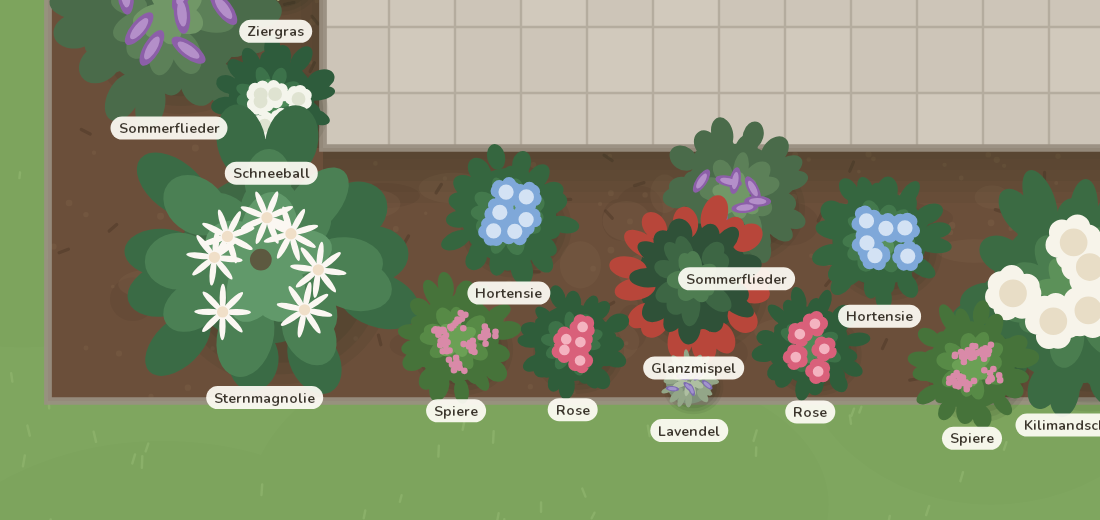
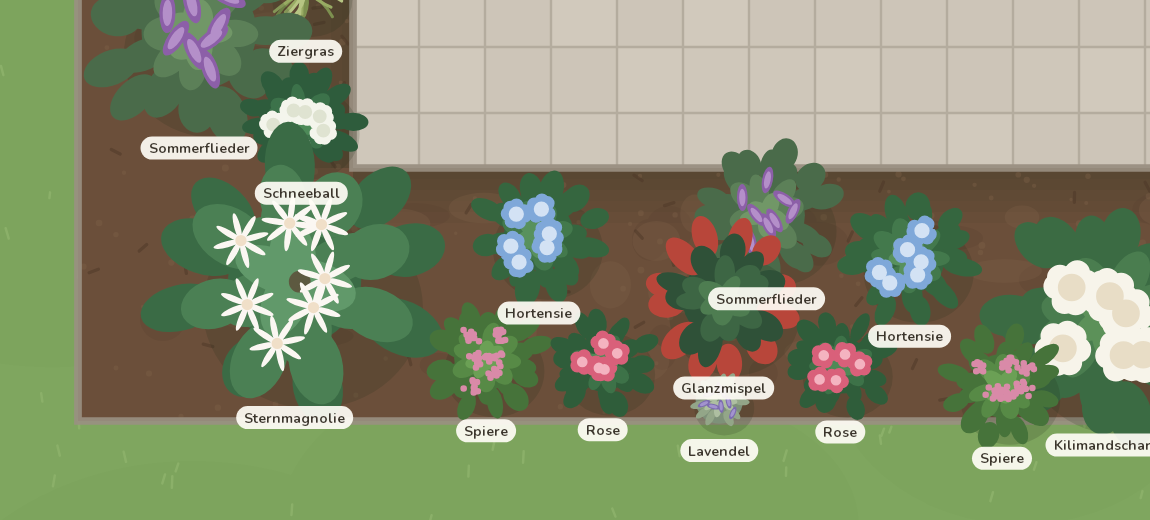
perf: bei starkem Zoom noch einmal siebenfach schneller
Hineingezoomt ruckelte es weiter. Gemessen bei 200 px/m: 163 ms pro
Frame, jetzt 56 ms. Gegenüber dem Ausgangszustand von 430 ms also 7,7x.

Der Engpass war nicht mehr die Anzahl der Aufrufe, sondern gefüllte
Pixel mit Alpha-Mischung -- bei starkem Zoom bedecken dieselben Formen
sehr viel mehr Fläche.

- **Texturfarben vorab ausgemischt** (src/view/color.ts). Erde, Gras und
  Plattenraster liegen immer direkt auf der Grundfarbe ihrer Fläche, also
  lässt sich das Ergebnis einmal ausrechnen und deckend zeichnen. Skia
  muss dann nicht pro Pixel mischen: Untergrund von 97 auf 53 ms.
- **Wandschatten deckend statt fünffach überlagert.** Die Abstufung wird
  vorab gerechnet (1-(1-a)^k), das Ergebnis ist identisch. Untergrund
  weiter auf 24 ms.
- **Pflanzenschatten von drei Ellipsen auf eine.** Das war allein achtzig
  Prozent der Pflanzenzeit -- jede Ellipse ist fast so groß wie die
  Pflanze und wurde mit Deckkraft über den Boden gemischt. Sichtbar ist
  ohnehin nur der Rand, der unter der Pflanze hervorschaut. Pflanzen von
  71 auf 34 ms.
- Blattzahlen von 46 auf 35 gesenkt; das brachte wenig (Überzeichnung war
  nicht der Punkt) und wurde beibehalten, weil es gleich gut aussieht.
  Der Grundkreis ist dafür wieder größer, sonst schien Erde durch.

Verifiziert: typecheck und 25 Tests grün, Vorschaubilder gegengesehen.

diff --git a/src/view/ground.ts b/src/view/ground.ts
@@ -14,6 +14,7 @@ import {
 
 import { GARDEN_PLAN, SOUTH_WALL_Y, WEST_WALL_X } from "../garden/plan";
 import type { GardenArea, Point, Rect } from "../garden/types";
+import { over } from "./color";
 import { makeRng, type Rng } from "./rng";
 import { textWidth } from "./text";
 
@@ -195,9 +196,9 @@ const drawLawn = (canvas: SkCanvas, path: SkPath, rect: Rect, rng: Rng) => {
     const r = rng.range(0.9, 2.6);
     addOval(patches, x, y, r, r * rng.range(0.6, 0.9));
   });
-  canvas.drawPath(patches.detach(), fill(MATERIAL.lawn.shade, 0.13));
+  canvas.drawPath(patches.detach(), fill(over(MATERIAL.lawn.base, MATERIAL.lawn.shade, 0.13)));
 
-  const blade = stroke(MATERIAL.lawn.blade, 0.022, 0.55);
+  const blade = stroke(over(MATERIAL.lawn.base, MATERIAL.lawn.blade, 0.55), 0.022);
   perTile(rect, rng, (tile, count) => {
     const blades = batch();
     scatter(tile, count(2.6), rng, (x, y) => {
@@ -215,7 +216,7 @@ const drawHouse = (canvas: SkCanvas, path: SkPath, rect: Rect) => {
     for (let y = rect.y; y < rect.y + rect.height; y += 1.1) {
       addSegment(bands, rect.x, y, rect.x + rect.width, y);
     }
-    canvas.drawPath(bands.detach(), stroke(MATERIAL.house.roof, 0.06, 0.5));
+    canvas.drawPath(bands.detach(), stroke(over(MATERIAL.house.base, MATERIAL.house.roof, 0.5), 0.06));
   });
 };
 
@@ -235,8 +236,8 @@ const drawTerrace = (canvas: SkCanvas, path: SkPath, rect: Rect, rng: Rng) => {
         else if (roll > 0.45) dark.addRect(Skia.XYWHRect(x, y, tile, tile));
       }
     }
-    canvas.drawPath(light.detach(), fill(MATERIAL.terrace.tint, 0.4));
-    canvas.drawPath(dark.detach(), fill(MATERIAL.terrace.tint, 0.18));
+    canvas.drawPath(light.detach(), fill(over(MATERIAL.terrace.base, MATERIAL.terrace.tint, 0.4)));
+    canvas.drawPath(dark.detach(), fill(over(MATERIAL.terrace.base, MATERIAL.terrace.tint, 0.18)));
 
     const joints = batch();
     for (let x = rect.x; x <= rect.x + rect.width + 0.001; x += tile) {
@@ -245,11 +246,13 @@ const drawTerrace = (canvas: SkCanvas, path: SkPath, rect: Rect, rng: Rng) => {
     for (let y = rect.y; y <= rect.y + rect.height + 0.001; y += tile) {
       addSegment(joints, rect.x, y, rect.x + rect.width, y);
     }
-    canvas.drawPath(joints.detach(), stroke(MATERIAL.terrace.joint, 0.022, 0.75));
+    canvas.drawPath(joints.detach(), stroke(over(MATERIAL.terrace.base, MATERIAL.terrace.joint, 0.75), 0.022));
   }
 };
 
 const drawBed = (canvas: SkCanvas, path: SkPath, rect: Rect, rng: Rng, outline: Point[]) => {
+  drawWallShadow(canvas, rect.x + rect.width, rect.y + rect.height);
+
   const clodDark = fill(MATERIAL.soil.dark, 0.3);
   const clodLight = fill(MATERIAL.soil.light, 0.3);
   const gritPaint = fill(MATERIAL.soil.light, 0.4);
@@ -303,23 +306,29 @@ const drawBed = (canvas: SkCanvas, path: SkPath, rect: Rect, rng: Rng, outline: 
 /**
  * Schlagschatten von Haus- und Terrassenwand auf das Beet.
  *
- * Beide Bänder liegen durch die Beetgeometrie zwangsläufig innerhalb des
- * Beetes, deshalb ohne Clip -- ein L-förmiger Clip über riesige Rechtecke war
- * der zweitteuerste Posten des ganzen Untergrunds. Als Treppe aus wenigen
- * Bändern statt als Weichzeichner, das ist optisch kaum zu unterscheiden.
+ * Eine Treppe aus Bändern statt eines Weichzeichners, und deckend statt mit
+ * Deckkraft: die Bänder liegen auf der Erdgrundfarbe, also lässt sich die
+ * Abstufung vorher ausrechnen. Mit Deckkraft übereinandergelegt war das bei
+ * starkem Zoom ein spürbarer Posten, weil dieselbe Fläche fünfmal gemischt
+ * wurde.
+ *
+ * Wird vor der Textur gezeichnet -- ob Erdschollen über oder unter dem Schatten
+ * liegen, sieht man nicht.
  */
 const drawWallShadow = (canvas: SkCanvas, bedRight: number, bedBottom: number) => {
   const steps = 5;
+  const perStep = 0.05;
   for (let i = 0; i < steps; i++) {
     const depth = 0.5 * (1 - i / steps);
+    // Ein Punkt in diesem Band liegt unter i+1 Bändern; das ist die Deckung,
+    // die sich mit Alpha ergeben hätte.
+    const cumulative = 1 - (1 - perStep) ** (i + 1);
     const bands = batch();
-    // Entlang der Südwand von Terrasse und Haus.
     bands.addRect(
       Skia.XYWHRect(WEST_WALL_X, SOUTH_WALL_Y, bedRight - WEST_WALL_X, Math.min(depth, bedBottom - SOUTH_WALL_Y)),
     );
-    // Entlang der Westwand der Terrasse, in den Westarm hinein.
     bands.addRect(Skia.XYWHRect(WEST_WALL_X - depth, 0, depth, SOUTH_WALL_Y));
-    canvas.drawPath(bands.detach(), fill("#1c2a16", 0.05));
+    canvas.drawPath(bands.detach(), fill(over(MATERIAL.soil.base, "#1c2a16", cumulative)));
   }
 };
 
@@ -432,10 +441,6 @@ export const createGroundTexturePicture = (): SkPicture => {
         const path = pathOf(area);
         canvas.drawPath(path, fill(BASE_COLOR[area.kind]));
         DRAWERS[area.kind](canvas, path, boundsOf(area), makeRng(`ground:${area.id}`), area.outline);
-        if (area.kind === "bed") {
-          const r = boundsOf(area);
-          drawWallShadow(canvas, r.x + r.width, r.y + r.height);
-        }
         drawAreaEdge(canvas, area, path);
       }
       void bed;

diff --git a/src/view/plantArt.ts b/src/view/plantArt.ts
@@ -93,16 +93,20 @@ const addLeafRing = (
 
 /** Dichter, runder Strauch: außen dunkel, innen hell -- liest sich als Kuppel. */
 const drawMound = (canvas: SkCanvas, radius: number, palette: PlantPalette, rng: Rng) => {
-  // Grundmasse, damit zwischen den Blättern kein Boden durchscheint.
+  // Grundmasse, damit zwischen den Blättern kein Boden durchscheint. Klein
+  // gehalten: die Ringe überdecken den Rand ohnehin, und jede zusätzliche
+  // Schicht wird bei starkem Zoom über viele Pixel geschrieben.
   const base = batch();
-  addCircle(base, 0, 0, radius * 0.78);
+  addCircle(base, 0, 0, radius * 0.7);
   canvas.drawPath(base.detach(), fill(palette.leafDark));
 
+  // Blattzahlen bewusst knapp: von 46 auf 35 gesenkt kostet bei starkem Zoom
+  // rund ein Viertel weniger, ohne dass die Kuppel auseinanderfällt.
   const rings: Array<{ r: number; count: number; color: string; leaf: number }> = [
-    { r: radius * 0.88, count: 16, color: palette.leafTip ?? palette.leafDark, leaf: 0.5 },
-    { r: radius * 0.64, count: 13, color: palette.leafDark, leaf: 0.48 },
-    { r: radius * 0.4, count: 10, color: palette.leafMid, leaf: 0.44 },
-    { r: radius * 0.16, count: 7, color: palette.leafLight, leaf: 0.4 },
+    { r: radius * 0.86, count: 12, color: palette.leafTip ?? palette.leafDark, leaf: 0.56 },
+    { r: radius * 0.62, count: 10, color: palette.leafDark, leaf: 0.54 },
+    { r: radius * 0.38, count: 8, color: palette.leafMid, leaf: 0.48 },
+    { r: radius * 0.14, count: 5, color: palette.leafLight, leaf: 0.44 },
   ];
   for (const ring of rings) {
     const b = batch();
@@ -114,14 +118,14 @@ const drawMound = (canvas: SkCanvas, radius: number, palette: PlantPalette, rng:
 /** Größeres Gehölz: lockerere, größere Blattlappen und ein Stammansatz. */
 const drawCanopy = (canvas: SkCanvas, radius: number, palette: PlantPalette, rng: Rng) => {
   const base = batch();
-  addCircle(base, 0, 0, radius * 0.7);
-  canvas.drawPath(base.detach(), fill(palette.leafDark, 0.9));
+  addCircle(base, 0, 0, radius * 0.64);
+  canvas.drawPath(base.detach(), fill(palette.leafDark));
 
   const rings: Array<{ r: number; count: number; color: string }> = [
-    { r: radius * 0.92, count: 11, color: palette.leafDark },
-    { r: radius * 0.68, count: 9, color: palette.leafMid },
-    { r: radius * 0.42, count: 7, color: palette.leafMid },
-    { r: radius * 0.2, count: 5, color: palette.leafLight },
+    { r: radius * 0.9, count: 9, color: palette.leafDark },
+    { r: radius * 0.66, count: 8, color: palette.leafMid },
+    { r: radius * 0.4, count: 6, color: palette.leafMid },
+    { r: radius * 0.18, count: 4, color: palette.leafLight },
   ];
   for (const ring of rings) {
     const b = batch();
@@ -138,7 +142,7 @@ const drawCanopy = (canvas: SkCanvas, radius: number, palette: PlantPalette, rng
 const drawGrass = (canvas: SkCanvas, radius: number, palette: PlantPalette, rng: Rng) => {
   const colors = [palette.leafDark, palette.leafMid, palette.leafLight];
   const groups = colors.map(() => batch());
-  for (let i = 0; i < 34; i++) {
+  for (let i = 0; i < 26; i++) {
     const angle = rng.range(0, Math.PI * 2);
     const length = rng.range(radius * 0.55, radius * 1.05);
     const bend = rng.range(-0.35, 0.35);
@@ -173,11 +177,11 @@ const drawTuft = (canvas: SkCanvas, radius: number, palette: PlantPalette, rng: 
   canvas.drawPath(base.detach(), fill(palette.leafDark));
 
   const outer = batch();
-  addLeafRing(outer, radius * 0.62, 14, radius * 0.5, radius * 0.2, rng);
+  addLeafRing(outer, radius * 0.62, 11, radius * 0.54, radius * 0.22, rng);
   canvas.drawPath(outer.detach(), fill(palette.leafMid));
 
   const inner = batch();
-  addLeafRing(inner, radius * 0.3, 9, radius * 0.42, radius * 0.18, rng);
+  addLeafRing(inner, radius * 0.3, 7, radius * 0.44, radius * 0.2, rng);
   canvas.drawPath(inner.detach(), fill(palette.leafLight));
 };
 
@@ -301,21 +305,17 @@ const FORMS = {
 
 /**
  * Schlagschatten nach Südosten -- Licht kommt konventionell von oben links.
- * Drei gestapelte Ellipsen statt eines Weichzeichners: derselbe Eindruck,
- * ohne pro Zoomstufe neu berechnete Maske.
+ *
+ * Eine einzige Ellipse. Vorher waren es drei gestapelte für einen weichen
+ * Verlauf; bei starkem Zoom war das allein achtzig Prozent der Zeit, die die
+ * Pflanzen kosteten -- jede Ellipse ist fast so groß wie die Pflanze und wird
+ * mit Deckkraft über den Boden gemischt. Sichtbar ist ohnehin nur der Rand, der
+ * unter der Pflanze hervorschaut.
  */
 const drawShadow = (canvas: SkCanvas, radius: number) => {
-  const offsetX = radius * 0.12;
-  const offsetY = radius * 0.2;
-  for (const [spread, alpha] of [
-    [1.02, 0.08],
-    [0.92, 0.09],
-    [0.8, 0.1],
-  ] as const) {
-    const b = batch();
-    addOval(b, offsetX, offsetY, radius * 1.8 * spread, radius * 1.64 * spread, 0);
-    canvas.drawPath(b.detach(), fill("#1c2a16", alpha));
-  }
+  const b = batch();
+  addOval(b, radius * 0.15, radius * 0.24, radius * 1.82, radius * 1.66, 0);
+  canvas.drawPath(b.detach(), fill("#1c2a16", 0.17));
 };
 
 /**

diff --git a/scripts/preview/bench.ts b/scripts/preview/bench.ts
@@ -62,37 +62,40 @@ const surface = Skia.Surface.Make(WIDTH, HEIGHT);
 if (!surface) throw new Error("Surface konnte nicht erzeugt werden");
 const canvas: SkCanvas = surface.getCanvas();
 
-const drawFrame = (scale: number, offset: number, texture: boolean, worldX = 0, worldY = 0) => {
+type Layers = { texture: boolean; ground: boolean; plants: boolean };
+
+const drawFrame = (scale: number, offset: number, layers: Layers, worldX = 0, worldY = 0) => {
   canvas.clear(Skia.Color("#8fb26e"));
   canvas.save();
   canvas.translate(-offset - worldX * scale, -offset / 2 - worldY * scale);
   canvas.scale(scale, scale);
-  canvas.drawPicture(texture ? groundTexture : groundFlat);
-  canvas.drawPicture(restingPlants);
+  if (layers.ground) canvas.drawPicture(layers.texture ? groundTexture : groundFlat);
+  if (layers.plants) canvas.drawPicture(restingPlants);
   canvas.restore();
   surface.flush();
 };
 
-const measure = (label: string, scale: number, texture: boolean, worldX = 0, worldY = 0) => {
-  drawFrame(scale, 0, texture, worldX, worldY);
+const measure = (label: string, scale: number, layers: Layers, worldX = 0, worldY = 0) => {
+  drawFrame(scale, 0, layers, worldX, worldY);
   const started = Bun.nanoseconds();
-  for (let i = 0; i < FRAMES; i++) drawFrame(scale, i * 0.5, texture, worldX, worldY);
+  for (let i = 0; i < FRAMES; i++) drawFrame(scale, i * 0.5, layers, worldX, worldY);
   const ms = (Bun.nanoseconds() - started) / 1e6 / FRAMES;
   console.log(`  ${label.padEnd(30)} ${ms.toFixed(1).padStart(7)} ms/Frame`);
 };
 
+const all = { texture: true, ground: true, plants: true };
+const onlyGround = { texture: true, ground: true, plants: false };
+const onlyPlants = { texture: false, ground: false, plants: true };
+const flat = { texture: false, ground: true, plants: true };
+
 console.log("Übersicht (34 px/m) -- ohne Textur, wie die App es zeichnet");
-measure("Basis + Pflanzen", 34, false);
-measure("(mit Textur, zum Vergleich)", 34, true);
+measure("alles flach", 34, flat);
 console.log();
-console.log("Detail (110 px/m) -- mit Textur");
-measure("Basis + Textur + Pflanzen", 110, true);
-measure("(ohne Textur, zum Vergleich)", 110, false);
-console.log();
-console.log("Prüft das Wegwerfen: Ausschnitt auf leerem Rasen weit weg");
-measure("Detail auf Rasen (16,-2)", 110, true, 16, -2.5);
-console.log();
-console.log("Textur über die Zoomstufen (Ausschnitt aufs Beet)");
-for (const scale of [44, 52, 65, 80, 100, 140]) {
-  measure(`${scale} px/m`, scale, true, 0, 0);
+
+for (const scale of [80, 140, 200]) {
+  console.log(`${scale} px/m (Ausschnitt aufs Beet)`);
+  measure("alles", scale, all);
+  measure("nur Untergrund + Textur", scale, onlyGround);
+  measure("nur Pflanzen", scale, onlyPlants);
+  console.log();
 }

diff --git a/src/view/color.ts b/src/view/color.ts
@@ -1,0 +1,40 @@
+/**
+ * Farben vorab mischen.
+ *
+ * Die Bodentextur liegt immer direkt auf der Grundfarbe ihrer Fläche. Statt sie
+ * mit Deckkraft darüber zu zeichnen, wird das Ergebnis einmal ausgerechnet und
+ * deckend gezeichnet -- dann muss Skia beim Zeichnen nicht pro Pixel mischen.
+ * Bei starkem Zoom ist genau das der Engpass, weil dieselben Formen dann sehr
+ * viele Pixel bedecken.
+ *
+ * Der Unterschied ist dort sichtbar, wo sich zwei Texturschichten überlagern:
+ * die obere dunkelt die untere nicht weiter ab. Bei Erde und Gras fällt das
+ * nicht auf.
+ */
+
+const parse = (hex: string): [number, number, number] => {
+  const value = hex.replace("#", "");
+  const full =
+    value.length === 3
+      ? value
+          .split("")
+          .map((c) => c + c)
+          .join("")
+      : value;
+  return [
+    Number.parseInt(full.slice(0, 2), 16),
+    Number.parseInt(full.slice(2, 4), 16),
+    Number.parseInt(full.slice(4, 6), 16),
+  ];
+};
+
+const toHex = (channel: number): string =>
+  Math.max(0, Math.min(255, Math.round(channel))).toString(16).padStart(2, "0");
+
+/** `color` mit `alpha` über `base` gelegt, als deckende Farbe. */
+export const over = (base: string, color: string, alpha: number): string => {
+  const [br, bg, bb] = parse(base);
+  const [cr, cg, cb] = parse(color);
+  const mix = (b: number, c: number) => b + (c - b) * alpha;
+  return `#${toHex(mix(br, cr))}${toHex(mix(bg, cg))}${toHex(mix(bb, cb))}`;
+};
